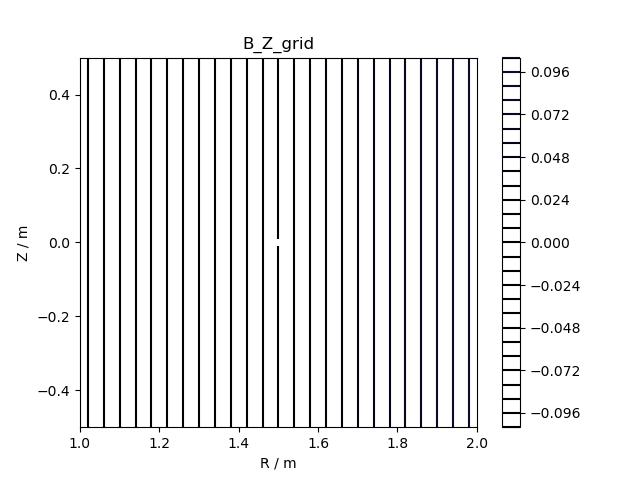
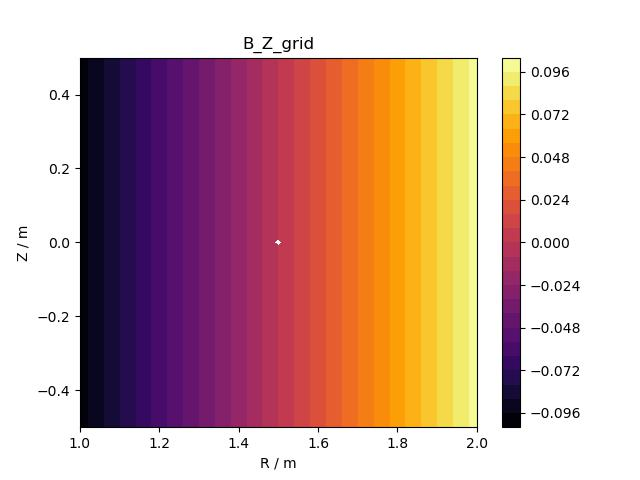
Swapped contour plot to contourf as per valerians wisdom

diff --git a/PlasmaVarPlot.py b/PlasmaVarPlot.py
@@ -66,14 +66,12 @@ def equilcontourplot(GridToPlot, title, filename="NONE", showfig=False, savefig=
     if filename == "NONE":
         filename = title
     plt.title(title)
-    CS = plt.contour(
+    CS = plt.contourf(
     data_R_coord,
     data_Z_coord,
     np.transpose(GridToPlot.reshape(len(data_R_coord), len(data_Z_coord))),
     levels = 30,
     cmap="inferno",
-    vmin=0,
-    vmax=1.2,
     )
     plt.xlim(data_R_coord[0], data_R_coord[-1])
     plt.ylim(data_Z_coord[0], data_Z_coord[-1])
@@ -90,7 +88,6 @@ equilcontourplot(B_R_grid, "B_R_grid")
 equilcontourplot(B_T_grid, "B_T_grid")
 equilcontourplot(B_Z_grid, "B_Z_grid")
 equilcontourplot(Electron_Density_Grid, "Electron_Density_Grid")
-
 
 # plt.title("Poloidal Plane")
 # contour_levels = np.linspace(0, 1, 11)
